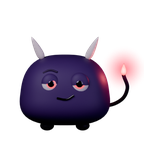
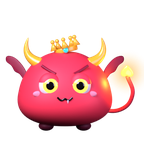
Mosto redesigned as a bright little demon king (小魔王): cherry-red gumdrop body, rakish gold crown, curled gold horns, bat wings, gold eyes under scheming brows, a fang, gold spade tail; night glow now gold
Claude-Session: https://claude.ai/code/session_01WZZYMUyJS6ZukaBhnCrVvp

diff --git a/Keyboard/MostoView.swift b/Keyboard/MostoView.swift
@@ -1,8 +1,8 @@
 import UIKit
 
-/// Mosto, the keyboard's small demon (魔头), in the toolbar's idle corner (where Gboard shows its G): mostly still,
-/// no words, never in the way of typing — hidden while composing or suggesting. By day an occasional quick blink;
-/// at night eyes narrowed and the tail tip glowing red; with Reduce Motion, no blinking at all.
+/// Mosto, the keyboard's little demon king (小魔王, after 魔头), in the toolbar's idle corner (where Gboard shows its G):
+/// mostly still, no words, never in the way of typing — hidden while composing or suggesting. By day an occasional
+/// quick blink; at night a scheming squint, gold eyes and the spade on its tail glowing; with Reduce Motion, no blinking.
 final class MostoView: UIView {
     private let image = UIImageView()
     private var timer: Timer?

diff --git a/App/MossOttoKeyboardApp.swift b/App/MossOttoKeyboardApp.swift
@@ -19,7 +19,7 @@ struct ContentView: View {
                             .accessibilityHidden(true)
                         VStack(alignment: .leading, spacing: 6) {
                             Text("Mosto").font(.title2.weight(.semibold))
-                            Text("名字念快了像“魔头”：一只住在键盘里的小恶魔。白天一只眼圆睁、一只眼半垂地看你打字，夜里眯起眼，尾巴尖亮起红光。")
+                            Text("名字念快了像“魔头”：一只住在键盘里的樱桃红小魔王，歪戴金冠，一对金色卷角。白天瞪着大眼睛看你打字，夜里眯眼坏笑，金色的眼睛和桃心尾巴亮起来。")
                                 .font(.subheadline).foregroundStyle(.secondary)
                         }
                     }

diff --git a/Keyboard/AmbientLightView.swift b/Keyboard/AmbientLightView.swift
@@ -38,7 +38,7 @@ final class AmbientLightView: UIView {
         glow.frame = bounds
         let w = bounds.width, h = bounds.height
         if night {
-            let c = Theme.hex(0xFF4D5E)   // Mosto's ember
+            let c = Theme.hex(0xFFB02E)   // the glow of Mosto's gold spade
             glow.colors = [c.withAlphaComponent(0.22).cgColor, c.withAlphaComponent(0.07).cgColor, c.withAlphaComponent(0).cgColor]
             glow.locations = [0, 0.4, 1]
             glow.startPoint = CGPoint(x: lampPoint.x / w, y: lampPoint.y / h)

diff --git a/Tools/ip/mosto3d.py b/Tools/ip/mosto3d.py
@@ -1,19 +1,22 @@
-"""Mosto — the keyboard's companion. The name sounds like 魔头 (mótóu, "the demon"), so Mosto is a small, sly devil
-of its own: no longer a mix of Moss and Otto, and sharing only the studio's way of making figures (ip3d.py: matte
-soft vinyl, painted glossy eyes, product-photo light).
+"""Mosto — the keyboard's companion. The name sounds like 魔头 (mótóu, "the demon"), so Mosto is a little demon king
+(小魔王): bright, cute, a bit wicked. It shares only the studio's way of making figures with Moss and Otto
+(ip3d.py: soft vinyl, painted glossy eyes, product-photo light), rendered with the Standard view so the toy colours stay bright.
 
-  body    a soft keycap — it lives in a keyboard — in deep plum-violet, a touch narrower at the top
-  horns   two short ivory horns, angled outwards
-  tail    a thin plum tail curling up behind the right side, ending in a crimson spade (it glows at night)
-  eyes    mismatched on purpose: one round and wide, one heavy-lidded; crimson irises; a one-sided smirk
-  feet    two ink feet
-  manner  mischievous rather than menacing: never shouts, never grins wide; at night the eyes narrow and glow red
+  body    a chubby gumdrop, plumper at the bottom, in cherry red #FF3B4E
+  crown   a small gold crown worn at a rakish angle, five ball-tipped points and a teal gem
+  horns   two curled gold horns: out, then up and in
+  wings   two small scalloped bat wings behind the shoulders, wine red
+  eyes    big and round, gold irises, big glossy pupils — under two brows that slant down to the middle (cute eyes,
+          wicked intent); pink blush
+  mouth   a wide cat-mouth grin with a single fang
+  tail    a red tail curling up on the right, ending in a gold spade (it glows at night)
+  manner  mischievous, never menacing; at night a scheming squint, gold eyes and the spade glowing
 
 Usage (Blender as a Python module, bpy 5.x):
-  python Tools/ip/mosto3d.py sheet  out_dir      family line-up, Mosto states, day and night
+  python Tools/ip/mosto3d.py sheet  out_dir      hero shot and states, day and night
   python Tools/ip/mosto3d.py sprites out_dir     transparent keyboard sprites (day, blink, night)
   python Tools/ip/mosto3d.py icon   out.png      1024 px app icon
-Options: --samples N  --color #RRGGBB
+Options: --samples N  --palette cherry|violet|pink  --color #RRGGBB (body only)
 """
 import math, os, sys
 HERE = os.path.dirname(os.path.abspath(__file__))
@@ -22,13 +25,24 @@ import bpy
 from mathutils import Euler
 import ip3d as B
 
-ARGS = sys.argv[1:]
-COLOR = B.arg("--color", "#3B2152")
-DEEP = "#24122F"
-CRIMSON = "#C8243C"
-IVORY = "#EFE5D3"
+_reset = B.reset
+def _bright_reset():
+    sc = _reset(); sc.view_settings.view_transform = "Standard"; sc.view_settings.look = "None"; return sc
+B.reset = _bright_reset
 
-MOSTO = dict(rx=0.5, ry=0.43, rz=0.43, cz=0.4, n=2.75, taper=0.1)
+ARGS = sys.argv[1:]
+# 小魔王: a bright cherry-red little demon king — gold crown and curled gold horns, bat wings, big glossy eyes with
+# gold irises under two scheming brows, one fang. Palettes: --palette cherry (default) | violet | pink
+PALETTES = {
+    "cherry": dict(body="#FF3B4E", deep="#8E1030", gold="#FFC22E", gem="#2FD3C4", blush="#FF97A6", feet="#5A0B22", glow="#FFB02E"),
+    "violet": dict(body="#8A4DFF", deep="#3A1A8C", gold="#FFD23F", gem="#FF4FA3", blush="#C9A2FF", feet="#2A1460", glow="#FFC23F"),
+    "pink":   dict(body="#FF4FA0", deep="#9A1260", gold="#FFD23F", gem="#7B4DFF", blush="#FFB3D4", feet="#5C0B3A", glow="#FFC23F"),
+}
+P = PALETTES[B.arg("--palette", "cherry")]
+COLOR = B.arg("--color", P["body"])
+
+# a gumdrop: round and soft, plumper at the bottom, a softer top
+MOSTO = dict(rx=0.52, ry=0.45, rz=0.45, cz=0.42, n=2.3, taper=0.17)
 
 def _norm(a, b, c):
     n = MOSTO["n"]
@@ -38,92 +52,178 @@ def _norm(a, b, c):
 def body_point(a, b, c):
     m = MOSTO
     a, b, c = _norm(a, b, c)
-    t = 1 - m["taper"] * c                       # a keycap: a touch narrower at the top
-    z = c * m["rz"] if c > 0 else c * m["rz"] * 0.82
+    t = 1 - m["taper"] * c                       # wider at the bottom: a sitting, chubby figure
+    z = c * m["rz"] if c > 0 else c * m["rz"] * 0.86
     return (a * m["rx"] * t, b * m["ry"] * t, m["cz"] + z)
 
 def surface_y(x, z):
     """The front surface (negative y) of the body at (x, z)."""
     m = MOSTO
-    c = (z - m["cz"]) / (m["rz"] if z >= m["cz"] else m["rz"] * 0.82)
-    t = 1 - m["taper"] * c
+    c = (z - m["cz"]) / (m["rz"] if z >= m["cz"] else m["rz"] * 0.86)
+    t = 1 - m["taper"] * max(-1, min(1, c))
     a = x / (m["rx"] * t)
     k = 1 - abs(a) ** m["n"] - abs(c) ** m["n"]
     return -m["ry"] * t * max(0.0, k) ** (1 / m["n"])
 
 def mosto_materials():
-    B.M["mosto"] = B.rubber("mosto", COLOR)
-    B.M["mostoDeep"] = B.rubber("mostoDeep", DEEP)
-    B.M["horn"] = B.mat("horn", IVORY, rough=0.38, sss=0.15, sss_rad=(0.4, 0.3, 0.2), coat=0.25)
-    B.M["crimson"] = B.mat("crimson", CRIMSON, rough=0.3, coat=0.5, emit=CRIMSON, emit_strength=0.0)
-    B.M["iris"] = B.mat("irisRed", CRIMSON, rough=0.15, coat=1.0, emit=CRIMSON, emit_strength=0.0)
+    B.M["mosto"] = B.rubber("mosto", COLOR, rough=0.5, sss=0.08)
+    B.M["mostoDeep"] = B.rubber("mostoDeep", P["deep"], rough=0.5)
+    B.M["gold"] = B.mat("gold", P["gold"], rough=0.28, coat=0.7, sss=0.1, sss_rad=(0.5, 0.35, 0.1))
+    B.M["gem"] = B.mat("gem", P["gem"], rough=0.05, coat=1.0, emit=P["gem"], emit_strength=0.3)
+    B.M["tip"] = B.mat("tip", P["gold"], rough=0.25, coat=0.7, emit=P["glow"], emit_strength=0.0)
+    B.M["iris"] = B.mat("irisGold", P["gold"], rough=0.12, coat=1.0, emit=P["glow"], emit_strength=0.0)
+    B.M["blush"] = B.mat("blush", P["blush"], rough=0.6, sss=0.3)
+    B.M["fang"] = B.mat("fang", "#FFFBF2", rough=0.3, coat=0.5)
+    B.M["foot"] = B.rubber("mostoFoot", P["feet"])
 
-def cone(name, base, tip, r0, r1, material):
-    """A horn: a cone from base to tip, smoothed."""
-    import mathutils
-    v = mathutils.Vector(tip) - mathutils.Vector(base)
-    bpy.ops.mesh.primitive_cone_add(vertices=40, radius1=r0, radius2=r1, depth=v.length,
-                                    location=(mathutils.Vector(base) + v / 2))
-    o = bpy.context.object; o.name = name
-    o.rotation_euler = v.to_track_quat("Z", "Y").to_euler()
+def _mesh(name, verts, faces, material, sub=2):
+    me = bpy.data.meshes.new(name); me.from_pydata(verts, [], faces); me.update()
+    o = bpy.data.objects.new(name, me); bpy.context.collection.objects.link(o)
     for poly in o.data.polygons: poly.use_smooth = True
-    B.smooth(o, 2)
+    if sub: B.smooth(o, sub)
     o.data.materials.append(material); return o
 
+def horn(name, p0, p1, p2, r0, material, rings=22, seg=20):
+    """A curled horn: a tapered tube along a quadratic bezier p0 → p1 → p2, closed at the tip."""
+    from mathutils import Vector
+    p0, p1, p2 = Vector(p0), Vector(p1), Vector(p2)
+    verts, faces = [], []
+    up = Vector((0, -1, 0))
+    for i in range(rings):
+        t = i / (rings - 1) * 0.97
+        pt = (1 - t) ** 2 * p0 + 2 * (1 - t) * t * p1 + t * t * p2
+        tg = (2 * (1 - t) * (p1 - p0) + 2 * t * (p2 - p1)).normalized()
+        nx = tg.cross(up).normalized(); ny = tg.cross(nx).normalized()
+        r = r0 * (1 - t) ** 0.85 + 0.004
+        for j in range(seg):
+            a = 2 * math.pi * j / seg
+            verts.append(tuple(pt + (nx * math.cos(a) + ny * math.sin(a)) * r))
+    verts.append(tuple(p2)); tip = len(verts) - 1
+    verts.append(tuple(p0 - (p1 - p0).normalized() * 0.01)); base = len(verts) - 1
+    for i in range(rings - 1):
+        for j in range(seg):
+            a, b = i * seg + j, i * seg + (j + 1) % seg
+            faces.append((a, b, b + seg, a + seg))
+    last = (rings - 1) * seg
+    for j in range(seg):
+        faces.append((last + j, last + (j + 1) % seg, tip))
+        faces.append(((j + 1) % seg, j, base))
+    return _mesh(name, verts, faces, material)
+
+def crown(top, tilt=-14, material=None):
+    """A small gold crown worn at a rakish angle between the horns: a band, five points with balls, a gem in front."""
+    parts = []
+    R, H = 0.13, 0.06
+    cx, cz = 0.02, top - 0.012
+    verts, faces = [], []
+    seg = 40
+    for k, (r, z) in enumerate(((R, 0), (R * 1.04, H))):
+        for j in range(seg):
+            a = 2 * math.pi * j / seg
+            verts.append((r * math.cos(a), r * 0.92 * math.sin(a), z))
+    for j in range(seg):
+        faces.append((j, (j + 1) % seg, seg + (j + 1) % seg, seg + j))
+    band = _mesh("mosto_crown", verts, faces, material, sub=0)
+    mod = band.modifiers.new("solid", "SOLIDIFY"); mod.thickness = 0.018; B.smooth(band, 2)
+    parts.append(band)
+    import mathutils
+    for j in range(5):
+        a = 2 * math.pi * j / 5 - math.pi / 2
+        bx, by = R * 1.02 * math.cos(a), R * 0.94 * math.sin(a)
+        bpy.ops.mesh.primitive_cone_add(vertices=24, radius1=0.045, radius2=0.004, depth=0.09, location=(bx, by, H + 0.038))
+        c = bpy.context.object; c.name = f"mosto_crown_pt{j}"; c.data.materials.append(material)
+        for poly in c.data.polygons: poly.use_smooth = True
+        parts.append(c)
+        parts.append(B.sphere(f"mosto_crown_ball{j}", (bx, by, H + 0.09), (0.022, 0.022, 0.022), material))
+    parts.append(B.sphere("mosto_gem", (0, -R * 0.95 - 0.014, H * 0.5), (0.03, 0.016, 0.034), B.M["gem"]))
+    root = bpy.data.objects.new("mosto_crown_root", None); bpy.context.collection.objects.link(root)
+    B.parent(parts, root)
+    root.location = (cx, 0.02, cz); root.rotation_euler = (math.radians(-6), math.radians(tilt), 0)
+    return [root, *parts]
+
+def wing(name, s, material):
+    """A small bat wing behind the shoulder: a scalloped outline, given thickness and rounded."""
+    outline = [(0, 0), (0.08, 0.1), (0.2, 0.17), (0.3, 0.16), (0.27, 0.09), (0.21, 0.1), (0.17, 0.03), (0.11, 0.05), (0.06, -0.02)]
+    verts = [(x, 0, z) for x, z in outline]
+    o = _mesh(name, verts, [tuple(range(len(verts)))], material, sub=0)
+    mod = o.modifiers.new("solid", "SOLIDIFY"); mod.thickness = 0.025; mod.offset = 0
+    B.smooth(o, 2)
+    o.scale = (s * 1.4, 1, 1.4)
+    o.location = (s * 0.38, 0.22, 0.5)
+    o.rotation_euler = (math.radians(-10), math.radians(-s * 12), math.radians(s * 28))
+    return o
+
 def build_mosto(x=0.0, moss_eye=None, otto_eye=None, shut=None, glow=0.0, lean=0.0, perk=0.5, droop=0.0, hop=0.0, evil=0.0):
-    """moss_eye / otto_eye: the left (wide) and right (heavy-lidded) eye — dicts of look, lid, pupil.
-    shut: 'day' (blink). evil: 0..1, how strongly the irises and the tail tip glow (night)."""
+    """moss_eye / otto_eye: the left and right eye — dicts of look, lid, pupil. shut: 'day' (blink).
+    evil: 0..1, how strongly the gold irises and the tail tip glow (night)."""
     M = B.M
     root = bpy.data.objects.new("Mosto", None); bpy.context.collection.objects.link(root)
-    body = B.shaped_sphere("mosto_body", body_point, M["mosto"], seg=72)
-    feet = [B.sphere(f"mosto_foot{i}", (s * 0.2, -0.1, 0.045), (0.078, 0.098, 0.055), M["foot"]) for i, s in enumerate((-1, 1))]
+    body = B.shaped_sphere("mosto_body", body_point, M["mosto"], seg=80)
+    feet = [B.sphere(f"mosto_foot{i}", (s * 0.21, -0.12, 0.045), (0.085, 0.1, 0.055), M["foot"]) for i, s in enumerate((-1, 1))]
     parts = [body, *feet]
     m = MOSTO
-    top = m["cz"] + m["rz"] - 0.01
-    ez = m["cz"] + 0.15
-    le = dict(look=(0.25, 0.2), lid=0.12, pupil=0.5); le.update(moss_eye or {})
-    re_ = dict(look=(-0.05, -0.1), lid=0.52, pupil=0.5); re_.update(otto_eye or {})
-    for k in ("iris", "crimson"):
-        M[k].node_tree.nodes["Principled BSDF"].inputs["Emission Strength"].default_value = 6.0 * evil
-    for s, er in ((-1, 0.105), (1, 0.115)):
-        ex = s * 0.165
+    top = m["cz"] + m["rz"]
+    ez = m["cz"] + 0.11
+    le = dict(look=(0.15, 0.1), lid=0.0, pupil=0.6); le.update(moss_eye or {})
+    re_ = dict(look=(0.15, 0.1), lid=0.18, pupil=0.6); re_.update(otto_eye or {})
+    for k in ("iris", "tip"):
+        M[k].node_tree.nodes["Principled BSDF"].inputs["Emission Strength"].default_value = 5.0 * evil
+    for s, er in ((-1, 0.128), (1, 0.128)):
+        ex = s * 0.175
         sy = surface_y(ex, ez)
+        # scheming brows: both slant down towards the middle — cute eyes, wicked intent
+        bx = ex
+        parts.append(B.tube(f"mosto_brow{s}", [(bx + s * 0.085, surface_y(bx + s * 0.085, ez + 0.17) - 0.006, ez + 0.19 + 0.02 * perk),
+                                               (bx + s * 0.01, surface_y(bx + s * 0.01, ez + 0.16) - 0.008, ez + 0.165),
+                                               (bx - s * 0.07, surface_y(bx - s * 0.07, ez + 0.13) - 0.006, ez + 0.125)], 0.016, M["mostoDeep"]))
+        parts.append(B.sphere(f"mosto_blush{s}", (s * 0.3, surface_y(s * 0.3, ez - 0.1) + 0.012, ez - 0.1), (0.06, 0.02, 0.035), M["blush"]))
         if shut:
-            dz = -0.006 if s < 0 else -0.03
-            parts.append(B.tube(f"mosto_shut{s}", [(ex - 0.07, sy, ez - 0.005), (ex, sy - 0.02, ez + dz), (ex + 0.07, sy, ez - 0.005)], 0.015, M["pupil"]))
+            parts.append(B.tube(f"mosto_shut{s}", [(ex - 0.075, sy - 0.004, ez + 0.0), (ex, sy - 0.02, ez - 0.035), (ex + 0.075, sy - 0.004, ez + 0.0)], 0.016, M["pupil"]))
             continue
         kw = le if s < 0 else re_
-        at = (ex, sy + 0.024, ez); sc = (0.9, 0.5, 1.0)
+        at = (ex, sy + 0.03, ez); sc = (0.92, 0.5, 1.05)
         parts += B.eye(f"mosto_eye{s}", at, er, kw["look"], scale=sc, lid=kw["lid"], skin=M["mosto"], pupil=kw["pupil"])
-        # a crimson iris ring behind the pupil
         lx, lz = kw["look"]; pr = er * kw["pupil"]
         px, py, pz = at[0] + lx * er * 0.42, at[1] - er * sc[1] * 0.78, at[2] + lz * er * 0.42
-        parts.append(B.sphere(f"mosto_iris{s}", (px, py + 0.0015, pz), (pr * 1.3, pr * 0.4, pr * 1.3), M["iris"]))
-        # a slanted brow line over the wide eye: the sly half of the face
-        if s < 0:
-            parts.append(B.tube("mosto_brow", [(ex - 0.08, surface_y(ex - 0.08, ez + 0.13) - 0.004, ez + 0.11),
-                                               (ex + 0.0, surface_y(ex, ez + 0.15) - 0.006, ez + 0.145),
-                                               (ex + 0.08, surface_y(ex + 0.08, ez + 0.13) - 0.004, ez + 0.125)], 0.012, M["mostoDeep"]))
-    # the smirk: one corner up
-    my = ez - 0.165
-    parts.append(B.tube("mosto_smirk", [(-0.09, surface_y(-0.09, my) - 0.003, my + 0.005), (0.02, surface_y(0.02, my) - 0.006, my - 0.008),
-                                        (0.1, surface_y(0.1, my + 0.03) - 0.004, my + 0.035)], 0.012, M["pupil"]))
-    # horns, angled outwards
+        parts.append(B.sphere(f"mosto_iris{s}", (px, py + 0.0015, pz), (pr * 1.32, pr * 0.4, pr * 1.32), M["iris"]))
+    # a wide cat-mouth grin with a single fang
+    my = ez - 0.15
+    pts = [(-0.085, my + 0.02), (-0.04, my - 0.012), (0.0, my + 0.004), (0.04, my - 0.012), (0.085, my + 0.02)]
+    parts.append(B.tube("mosto_grin", [(x_, surface_y(x_, z_) - 0.005, z_) for x_, z_ in pts], 0.011, M["pupil"]))
+    fx = 0.035; fz = my - 0.012
+    import mathutils
+    bpy.ops.mesh.primitive_cone_add(vertices=20, radius1=0.016, radius2=0.002, depth=0.04, location=(fx, surface_y(fx, fz) - 0.004, fz - 0.016))
+    fang = bpy.context.object; fang.name = "mosto_fang"; fang.rotation_euler = (math.radians(180), 0, 0)
+    fang.data.materials.append(M["fang"]); parts.append(fang)
+    # curled gold horns: out, then up and in
     for s in (-1, 1):
-        hx = s * 0.24
-        base = (hx, -0.02, top - 0.05)
-        tip = (hx + s * (0.11 + 0.03 * perk), -0.05, top + 0.2 + 0.03 * perk)
-        parts.append(cone(f"mosto_horn{s}", base, tip, 0.068, 0.012, M["horn"]))
-    # the tail: from behind the right flank, curling up, a crimson spade at the end (named bead: the glow follows it)
+        hx = s * 0.27
+        bz = m["cz"] + 0.32
+        p0 = (hx, surface_y(hx, bz) * 0.4, bz)
+        p1 = (hx + s * (0.2 + 0.03 * perk), -0.04, bz + 0.08)
+        p2 = (hx + s * (0.12 + 0.02 * perk), -0.07, bz + 0.27 + 0.03 * perk)
+        parts.append(horn(f"mosto_horn{s}", p0, p1, p2, 0.065, M["gold"]))
+    parts += crown(top, material=M["gold"])
+    parts += [wing("mosto_wingL", -1, M["mostoDeep"]), wing("mosto_wingR", 1, M["mostoDeep"])]
+    # the tail: from behind the right flank, a lively S, ending in a gold spade (named bead: the glow follows it)
     d = droop
-    tx, ty, tz = 0.66 - 0.03 * d, 0.06, 0.66 - 0.12 * d
-    parts.append(B.tube("mosto_tail", [(0.3, 0.32, 0.22), (0.58, 0.3, 0.26), (0.7, 0.18, 0.42), (tx, ty, tz - 0.06)], 0.02, M["mostoDeep"]))
-    parts.append(cone("mosto_bead", (tx, ty, tz - 0.07), (tx + 0.005, ty - 0.01, tz + 0.08), 0.06, 0.004, M["crimson"]))
+    tx, ty, tz = 0.7 - 0.03 * d, 0.08, 0.6 - 0.12 * d
+    parts.append(B.tube("mosto_tail", [(0.32, 0.3, 0.2), (0.62, 0.32, 0.18), (0.76, 0.2, 0.36), (tx, ty - 0.01, tz - 0.005)], 0.022, M["mosto"]))
+    bpy.ops.object.empty_add(location=(tx, ty, tz + 0.02)); bead = bpy.context.object; bead.name = "mosto_bead"; parts.append(bead)
+    # a spade: a point on top, two round lobes below, a notch where the tail joins
+    spade = [(0, 0.11), (0.035, 0.07), (0.068, 0.03), (0.075, -0.005), (0.055, -0.03), (0.025, -0.032), (0.0, -0.015),
+             (-0.025, -0.032), (-0.055, -0.03), (-0.075, -0.005), (-0.068, 0.03), (-0.035, 0.07)]
+    v = [(x_, 0, z_) for x_, z_ in spade]
+    sp = _mesh("mosto_spade", v, [tuple(range(len(v)))], M["tip"], sub=0)
+    mod = sp.modifiers.new("solid", "SOLIDIFY"); mod.thickness = 0.035; mod.offset = 0; B.smooth(sp, 2)
+    sp.location = (tx, ty - 0.01, tz + 0.01); sp.rotation_euler = (math.radians(4), 0, math.radians(-12)); sp.scale = (1.1, 1, 1.1)
+    parts.append(sp)
     if evil > 0:
-        bpy.ops.object.light_add(type="POINT", location=(tx, ty - 0.08, tz)); lamp = bpy.context.object
-        lamp.data.energy = 18 * evil; lamp.data.color = B.hexcol("#FF4D5E")[:3]; lamp.data.shadow_soft_size = 0.06
+        bpy.ops.object.light_add(type="POINT", location=(tx, ty - 0.1, tz)); lamp = bpy.context.object
+        lamp.data.energy = 16 * evil; lamp.data.color = B.hexcol(P["glow"])[:3]; lamp.data.shadow_soft_size = 0.06
         parts.append(lamp)
-    B.parent(parts, root)
+    for o in parts:
+        if o.parent is None: o.parent = root
     root.location = (x, 0, hop); root.rotation_euler = (0, math.radians(lean), 0)
     if hop > 0: root.scale = (1 - hop * 0.3, 1 - hop * 0.3, 1 + hop * 0.6)
     return root
@@ -132,9 +232,9 @@ STATES = {
     "day": dict(),
     "glance": dict(moss_eye=dict(look=(-0.9, 0.15)), otto_eye=dict(look=(-0.7, -0.1)), lean=4, perk=0.8),
     "blink": dict(shut="day"),
-    "type": dict(moss_eye=dict(look=(0.1, -0.6), lid=0.18), otto_eye=dict(look=(0.0, -0.6), lid=0.6), lean=-3, perk=0.7),
-    # night: awake, eyes narrowed, irises and tail tip glowing red
-    "night": dict(moss_eye=dict(look=(0.2, 0.0), lid=0.5, pupil=0.42), otto_eye=dict(look=(0.0, 0.0), lid=0.6, pupil=0.42), evil=1.0, perk=1.0),
+    "type": dict(moss_eye=dict(look=(0.1, -0.6), lid=0.15), otto_eye=dict(look=(0.0, -0.6), lid=0.3), lean=-3, perk=0.7),
+    # night: awake, eyes narrowed to a scheming squint, gold irises and the spade glowing
+    "night": dict(moss_eye=dict(look=(0.2, 0.0), lid=0.42, pupil=0.5), otto_eye=dict(look=(0.0, 0.0), lid=0.48, pupil=0.5), evil=1.0, perk=1.0),
 }
 
 def night_world():
@@ -172,7 +272,7 @@ def add_glow(path, at, radius=0.16, strength=0.75):
     d = ImageDraw.Draw(halo); cx, cy = at[0] * w, at[1] * h; r = radius * w
     for i in range(24, 0, -1):
         k = i / 24
-        d.ellipse([cx - r * k, cy - r * k, cx + r * k, cy + r * k], fill=(255, 77, 94, int(255 * strength * (1 - k) ** 1.6)))
+        d.ellipse([cx - r * k, cy - r * k, cx + r * k, cy + r * k], fill=(*[int(P['glow'][i:i+2],16) for i in (1,3,5)], int(255 * strength * (1 - k) ** 1.6)))
     halo = halo.filter(ImageFilter.GaussianBlur(w * 0.01))
     Image.alpha_composite(halo, im).save(path) if im.mode == "RGBA" else None
 
@@ -229,9 +329,9 @@ def icon(path):
     B.render(tmp, size, size)
     bg = Image.new("RGB", (size, size))
     d = ImageDraw.Draw(bg)
-    for y in range(size):                                   # a pale lilac that turns ember-pink at the bottom
+    for y in range(size):                                   # a night-indigo sky, lighter at the top: the cherry red pops
         t = y / size
-        d.line([(0, y), (size, y)], fill=(int(244 - 2 * t), int(236 - 40 * t), int(246 - 36 * t)))
+        d.line([(0, y), (size, y)], fill=(int(58 - 26 * t), int(52 - 22 * t), int(128 - 50 * t)))
     fg = Image.open(tmp).convert("RGBA")
     bg.paste(fg, (0, 0), fg)
     bg.save(path)

diff --git a/README.md b/README.md
@@ -17,7 +17,7 @@
 | 外观 | 日光 / 夜灯，与摸索台灯一致：自动跟随系统、固定日光、固定夜灯、晚上 19:00–6:00 自动夜灯 |
 | 联想 | 上屏后推荐下一个词（3.9 万个词头、11 万条续写）；最后一个候选始终是输入的字母原文 |
 | 输入方案 | 小鹤双拼与全拼（含简拼、半截音节），设置里切换；两种方案都按触点自动纠错 |
-| Mosto | 键盘里的小魔头（谐音“魔头”），空闲时待在候选栏左侧，点它打开设置；设定见 [docs/MOSTO.md](docs/MOSTO.md) |
+| Mosto | 键盘里的樱桃红小魔王（谐音“魔头”），空闲时待在候选栏左侧，点它打开设置；设定见 [docs/MOSTO.md](docs/MOSTO.md) |
 | 符号 | 中/英两套 123、#+= 页面，与 Gboard 同排布，每页 ≤10 键/行，全部可见 |
 | 手感 | 自绘按键、整块区域统一处理触摸、多指连按不丢字、空格拖动移光标、删除长按加速 |
 | 隐私 | 不联网；词库和学习数据只存在本机 |
